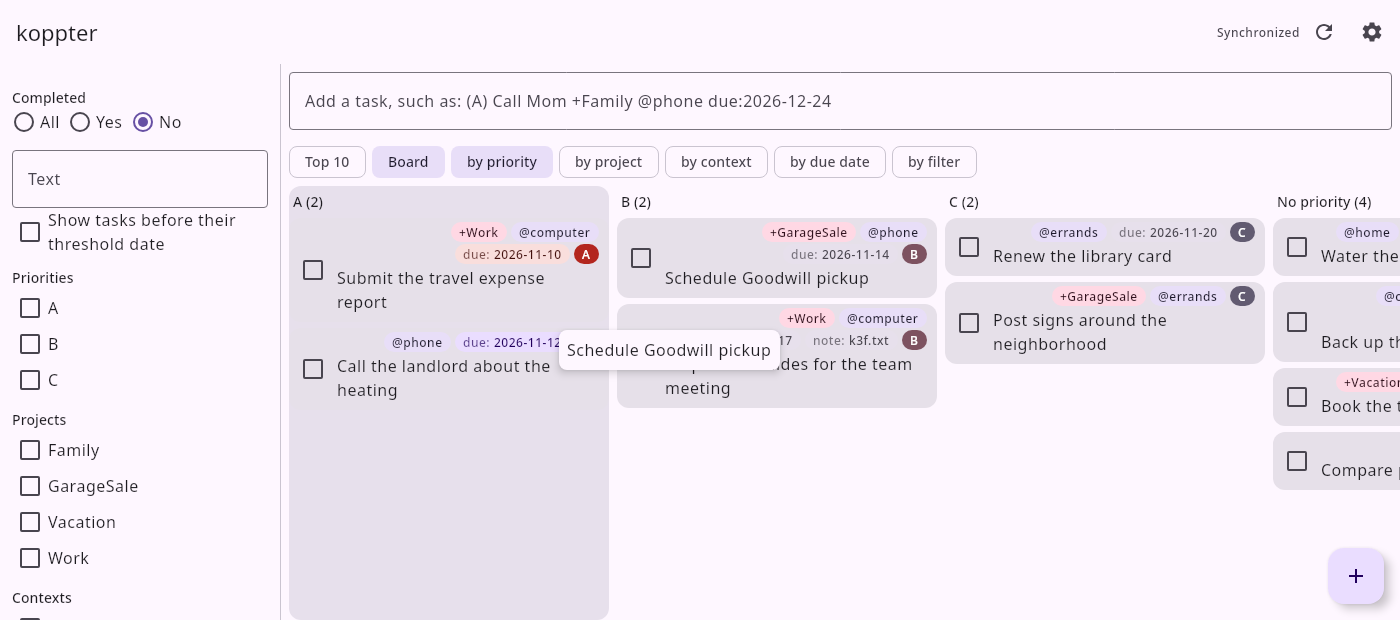
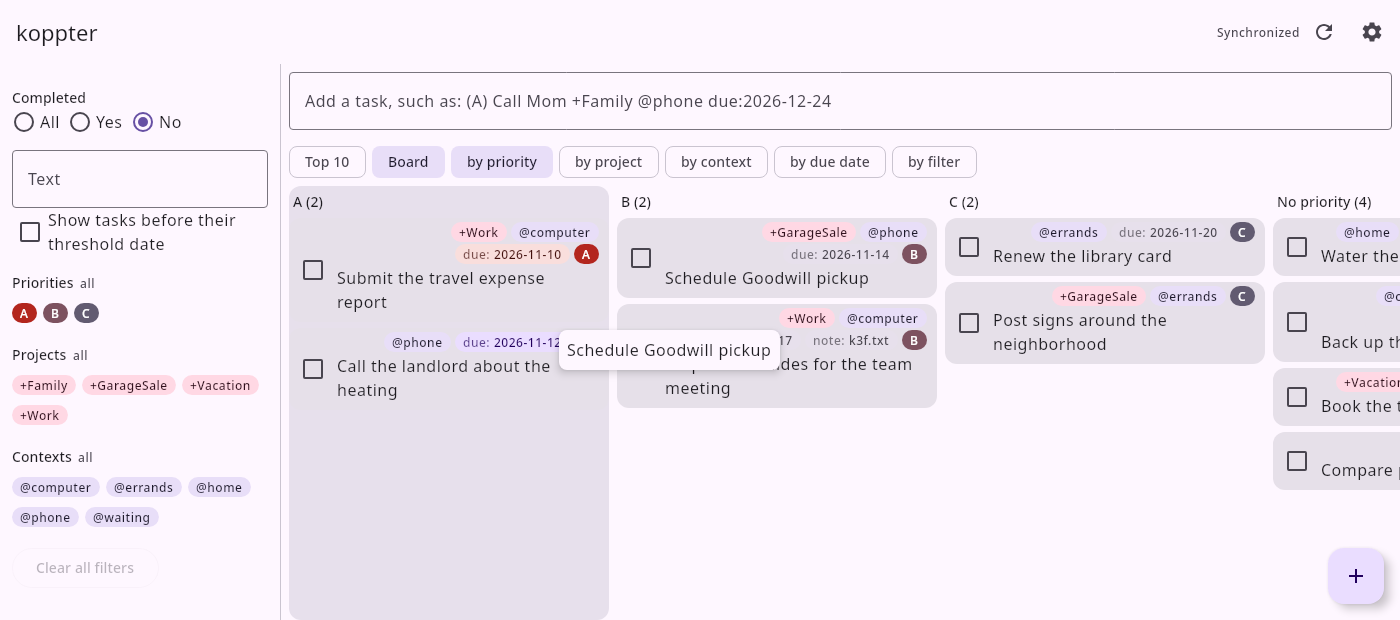
Show the filter criteria as the labels of the tasks
Priorities, projects and contexts in the filter panel look like the
labels in the task list; the selected ones stand beside the title
of the criterion, the others below it.

diff --git a/app/src/commonMain/kotlin/io/github/koppor/koppter/ui/FilterPanel.kt b/app/src/commonMain/kotlin/io/github/koppor/koppter/ui/FilterPanel.kt
@@ -1,12 +1,16 @@
 package io.github.koppor.koppter.ui
 
+import androidx.compose.foundation.layout.Arrangement
 import androidx.compose.foundation.layout.Column
+import androidx.compose.foundation.layout.ExperimentalLayoutApi
+import androidx.compose.foundation.layout.FlowRow
 import androidx.compose.foundation.layout.Row
 import androidx.compose.foundation.layout.fillMaxWidth
 import androidx.compose.foundation.layout.padding
 import androidx.compose.foundation.rememberScrollState
 import androidx.compose.foundation.selection.selectable
 import androidx.compose.foundation.selection.toggleable
+import androidx.compose.foundation.shape.CircleShape
 import androidx.compose.foundation.verticalScroll
 import androidx.compose.material3.Checkbox
 import androidx.compose.material3.MaterialTheme
@@ -17,6 +21,7 @@ import androidx.compose.material3.Text
 import androidx.compose.runtime.Composable
 import androidx.compose.ui.Alignment
 import androidx.compose.ui.Modifier
+import androidx.compose.ui.draw.clip
 import androidx.compose.ui.platform.testTag
 import androidx.compose.ui.semantics.Role
 import androidx.compose.ui.unit.dp
@@ -25,7 +30,7 @@ import io.github.koppor.koppter.todotxt.Filter
 
 /**
  * The filter criteria as a column: completion, text, priorities, projects, contexts.
- * Priorities, projects and contexts list the values that occur in the file.
+ * Priorities, projects and contexts offer the values that occur in the file, as the labels that the tasks carry.
  */
 // [impl->dsn~filter-panel~1]
 @Composable
@@ -67,29 +72,14 @@ fun FilterPanel(
             onChange(filter.copy(hideFuture = !it))
         }
 
-        if (priorities.isNotEmpty()) {
-            Heading("Priorities")
-            for (priority in priorities) {
-                Option(priority.toString(), priority in filter.priorities, "filter-priority-$priority") {
-                    onChange(filter.copy(priorities = filter.priorities.toggled(priority, it)))
-                }
-            }
+        LabelFilter("Priorities", priorities, filter.priorities, { "filter-priority-$it" }, { onChange(filter.copy(priorities = it)) }) { value, suffix, modifier ->
+            PriorityLabel(value, modifier, suffix)
         }
-        if (projects.isNotEmpty()) {
-            Heading("Projects")
-            for (project in projects) {
-                Option(project, project in filter.projects, "filter-project-$project") {
-                    onChange(filter.copy(projects = filter.projects.toggled(project, it)))
-                }
-            }
+        LabelFilter("Projects", projects, filter.projects, { "filter-project-$it" }, { onChange(filter.copy(projects = it)) }) { value, suffix, modifier ->
+            ProjectLabel(value, modifier, suffix)
         }
-        if (contexts.isNotEmpty()) {
-            Heading("Contexts")
-            for (context in contexts) {
-                Option(context, context in filter.contexts, "filter-context-$context") {
-                    onChange(filter.copy(contexts = filter.contexts.toggled(context, it)))
-                }
-            }
+        LabelFilter("Contexts", contexts, filter.contexts, { "filter-context-$it" }, { onChange(filter.copy(contexts = it)) }) { value, suffix, modifier ->
+            ContextLabel(value, modifier, suffix)
         }
 
         OutlinedButton(
@@ -102,7 +92,44 @@ fun FilterPanel(
     }
 }
 
-private fun <T> Set<T>.toggled(value: T, selected: Boolean): Set<T> = if (selected) this + value else this - value
+/**
+ * One criterion with several values, shown as the labels the task list uses for them.
+ * The selected values stand beside the title, the others below it; a click moves a label to the other group.
+ * Both groups are sorted.
+ */
+@OptIn(ExperimentalLayoutApi::class)
+@Composable
+private fun <T : Comparable<T>> LabelFilter(
+    title: String,
+    values: List<T>,
+    selected: Set<T>,
+    tag: (T) -> String,
+    onChange: (Set<T>) -> Unit,
+    label: @Composable (value: T, suffix: String, modifier: Modifier) -> Unit,
+) {
+    if (values.isEmpty() && selected.isEmpty()) return
+    // The area that reacts to a click is larger than the label, which is too small for a finger.
+    fun modifier(value: T, isSelected: Boolean) = Modifier
+        .clip(CircleShape)
+        .toggleable(value = isSelected, role = Role.Checkbox, onValueChange = { onChange(if (it) selected + value else selected - value) })
+        .testTag(tag(value))
+        .padding(vertical = 5.dp)
+    FlowRow(Modifier.padding(top = 12.dp), horizontalArrangement = Arrangement.spacedBy(6.dp)) {
+        Text(title, style = MaterialTheme.typography.titleSmall, modifier = Modifier.align(Alignment.CenterVertically).padding(vertical = 5.dp))
+        if (selected.isEmpty()) {
+            Text(
+                "all",
+                style = MaterialTheme.typography.labelMedium,
+                color = MaterialTheme.colorScheme.onSurfaceVariant,
+                modifier = Modifier.align(Alignment.CenterVertically),
+            )
+        }
+        for (value in selected.sorted()) label(value, " \u00d7", modifier(value, true))
+    }
+    FlowRow(horizontalArrangement = Arrangement.spacedBy(6.dp)) {
+        for (value in values.sorted().filter { it !in selected }) label(value, "", modifier(value, false))
+    }
+}
 
 @Composable
 private fun Heading(text: String) {

diff --git a/app/src/commonMain/kotlin/io/github/koppor/koppter/ui/Labels.kt b/app/src/commonMain/kotlin/io/github/koppor/koppter/ui/Labels.kt
@@ -35,8 +35,8 @@ fun Label(text: String, container: Color, content: Color, modifier: Modifier = M
 @Composable
 fun TaskLabels(task: Task, today: LocalDate) {
     val colors = MaterialTheme.colorScheme
-    task.projects.forEach { Label("+$it", colors.tertiaryContainer, colors.onTertiaryContainer) }
-    task.contexts.forEach { Label("@$it", colors.secondaryContainer, colors.onSecondaryContainer) }
+    task.projects.forEach { ProjectLabel(it) }
+    task.contexts.forEach { ContextLabel(it) }
     task.tags.forEach { (key, value) ->
         val overdue = key == Task.DUE && !task.completed && task.due.let { it != null && it < today }
         val dueToday = key == Task.DUE && !task.completed && task.due == today
@@ -49,13 +49,25 @@ fun TaskLabels(task: Task, today: LocalDate) {
     task.priority?.let { PriorityLabel(it) }
 }
 
+/** @param suffix text after the value, such as the mark of a label that can be removed */
 @Composable
-fun PriorityLabel(priority: Char, modifier: Modifier = Modifier) {
+fun ProjectLabel(project: String, modifier: Modifier = Modifier, suffix: String = "") {
+    Label("+$project$suffix", MaterialTheme.colorScheme.tertiaryContainer, MaterialTheme.colorScheme.onTertiaryContainer, modifier)
+}
+
+@Composable
+fun ContextLabel(context: String, modifier: Modifier = Modifier, suffix: String = "") {
+    Label("@$context$suffix", MaterialTheme.colorScheme.secondaryContainer, MaterialTheme.colorScheme.onSecondaryContainer, modifier)
+}
+
+@Composable
+fun PriorityLabel(priority: Char, modifier: Modifier = Modifier, suffix: String = "") {
     val colors = MaterialTheme.colorScheme
+    val text = "$priority$suffix"
     when (priority) {
-        'A' -> Label("A", colors.error, colors.onError, modifier)
-        'B' -> Label("B", colors.tertiary, colors.onTertiary, modifier)
-        'C' -> Label("C", colors.secondary, colors.onSecondary, modifier)
-        else -> Label(priority.toString(), colors.surfaceVariant, colors.onSurfaceVariant, modifier)
+        'A' -> Label(text, colors.error, colors.onError, modifier)
+        'B' -> Label(text, colors.tertiary, colors.onTertiary, modifier)
+        'C' -> Label(text, colors.secondary, colors.onSecondary, modifier)
+        else -> Label(text, colors.surfaceVariant, colors.onSurfaceVariant, modifier)
     }
 }

diff --git a/app/src/desktopTest/kotlin/io/github/koppor/koppter/ui/AppTest.kt b/app/src/desktopTest/kotlin/io/github/koppor/koppter/ui/AppTest.kt
@@ -4,6 +4,8 @@ import androidx.compose.ui.test.ComposeUiTest
 import androidx.compose.ui.test.ExperimentalTestApi
 import androidx.compose.ui.test.assertCountEquals
 import androidx.compose.ui.test.assertIsNotEnabled
+import androidx.compose.ui.test.assertIsOff
+import androidx.compose.ui.test.assertIsOn
 import androidx.compose.ui.test.assertTextEquals
 import androidx.compose.ui.test.hasAnyAncestor
 import androidx.compose.ui.test.hasTestTag
@@ -180,10 +182,14 @@ class AppTest {
     @Test
     fun theFilterPanelRestrictsTheList() = runComposeUiTest {
         start()
-        onNodeWithTag("filter-project-GarageSale").performClick()
+        onNodeWithTag("filter-project-GarageSale").assertIsOff().performClick()
         onAllNodesWithTag("task").assertCountEquals(2)
+        onNodeWithTag("filter-project-GarageSale").assertIsOn()
         onNodeWithTag("filter-priority-B").performClick()
         onAllNodesWithTag("task").assertCountEquals(1)
+        // A click on a selected label takes it out of the filter again.
+        onNodeWithTag("filter-priority-B").performClick()
+        onAllNodesWithTag("task").assertCountEquals(2)
         onNodeWithTag("filter-clear").performClick()
         onAllNodesWithTag("task").assertCountEquals(3)
         onNodeWithTag("filter-completed-Yes").performClick()

diff --git a/app/src/desktopTest/kotlin/io/github/koppor/koppter/ui/ScreenshotTest.kt b/app/src/desktopTest/kotlin/io/github/koppor/koppter/ui/ScreenshotTest.kt
@@ -81,6 +81,11 @@ class ScreenshotTest {
     fun rendersListAndDialogs() = runDesktopComposeUiTest(width = 1100, height = 900) {
         start()
         save("list.png")
+        onNodeWithTag("filter-project-GarageSale").performClick()
+        onNodeWithTag("filter-project-Work").performClick()
+        onNodeWithTag("filter-context-phone").performClick()
+        save("filter.png")
+        onNodeWithTag("filter-clear").performClick()
         onNodeWithText("Prepare the slides for the team meeting").performClick()
         save("edit.png")
         onNodeWithTag("edit-cancel").performClick()

diff --git a/CHANGELOG.md b/CHANGELOG.md
@@ -12,7 +12,7 @@ and this project adheres to [Calendar Versioning](https://calver.org/) with the 
 - Desktop application that shows the tasks of a todo.txt file with projects, contexts, tags and priority as labels at the top right of each task.
 - Adding a task by typing a line in todo.txt syntax.
 - Edit dialog with the description separate from the metadata and a preview of the resulting todo.txt line.
-- Filter panel for completion state, text, priorities, projects, contexts and threshold date.
+- Filter panel for completion state, text, priorities, projects, contexts and threshold date; priorities, projects and contexts are selected as the labels that the tasks carry.
 - Setting for the location of the todo.txt file and for writing creation and completion dates, which are not written by default.
 - Android application with the same screens; the todo.txt file is kept in the storage of the application or chosen with the document picker of the system.
 - Button in the settings that opens the file dialog of the platform to choose the todo.txt file.

diff --git a/README.md b/README.md
@@ -14,6 +14,11 @@ Projects, contexts, tags and the priority are labels at the top right of each ta
 
 ![Task list with the filter panel on the left](docs/screenshots/list.png)
 
+The filter panel offers priorities, projects and contexts as the labels that the tasks carry.
+A click moves a label to the selected ones beside the title; here, the list shows the tasks of the projects *GarageSale* or *Work* that have the context *phone*.
+
+![Task list filtered by two projects and a context](docs/screenshots/filter.png)
+
 The board with one column per priority, while a task is dragged from column B to column A.
 
 ![Board by priority with a task being dragged to another column](docs/screenshots/board-priority.png)

diff --git a/docs/requirements/ui.md b/docs/requirements/ui.md
@@ -183,7 +183,9 @@ Needs: impl, utest
 ### Filter panel
 `dsn~filter-panel~1`
 
-`FilterPanel` shows the criteria of `Filter` as radio buttons, a text field and checkboxes.
+`FilterPanel` shows the criteria of `Filter`: the completion state as radio buttons, the text as a text field, and the threshold date as a checkbox.
+Priorities, projects and contexts are shown as the labels that the task list uses for them.
+The selected values stand beside the title of the criterion and the other values below it, both sorted; a click on a label moves it to the other group.
 From a width of 840 dp on, the main screen places the panel beside the list; below that, the panel is the content of a navigation drawer.
 
 Covers:
